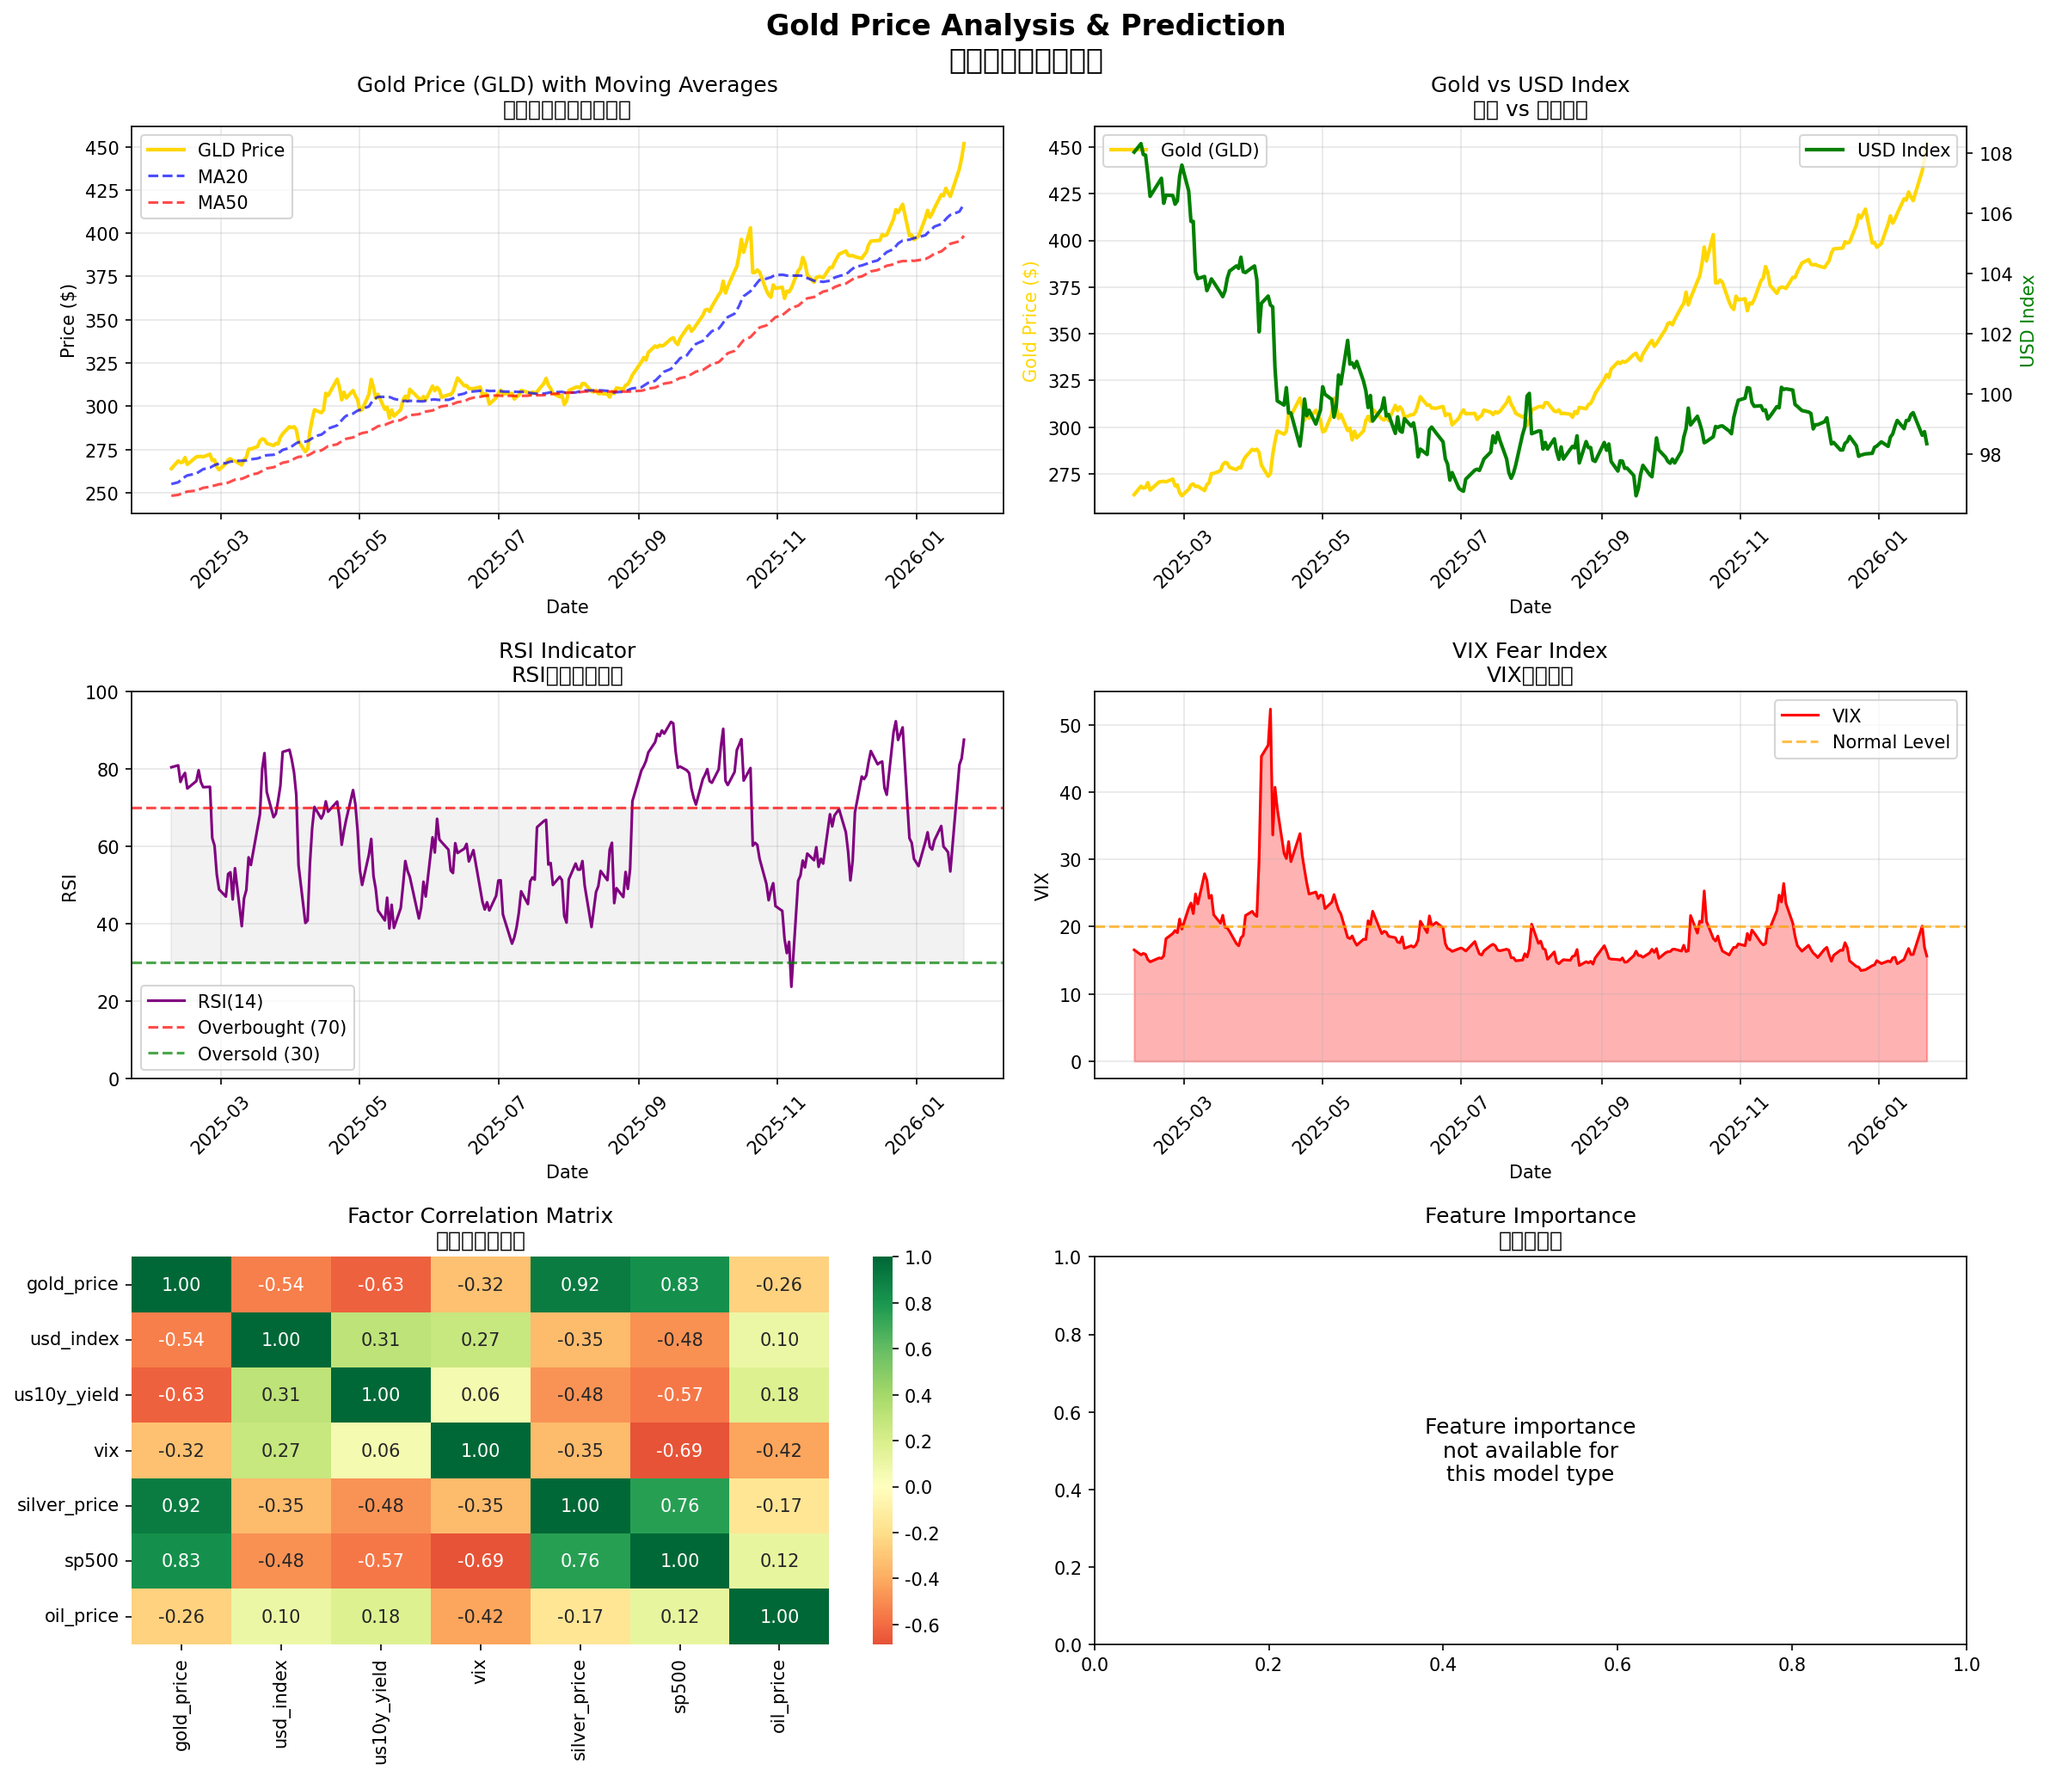
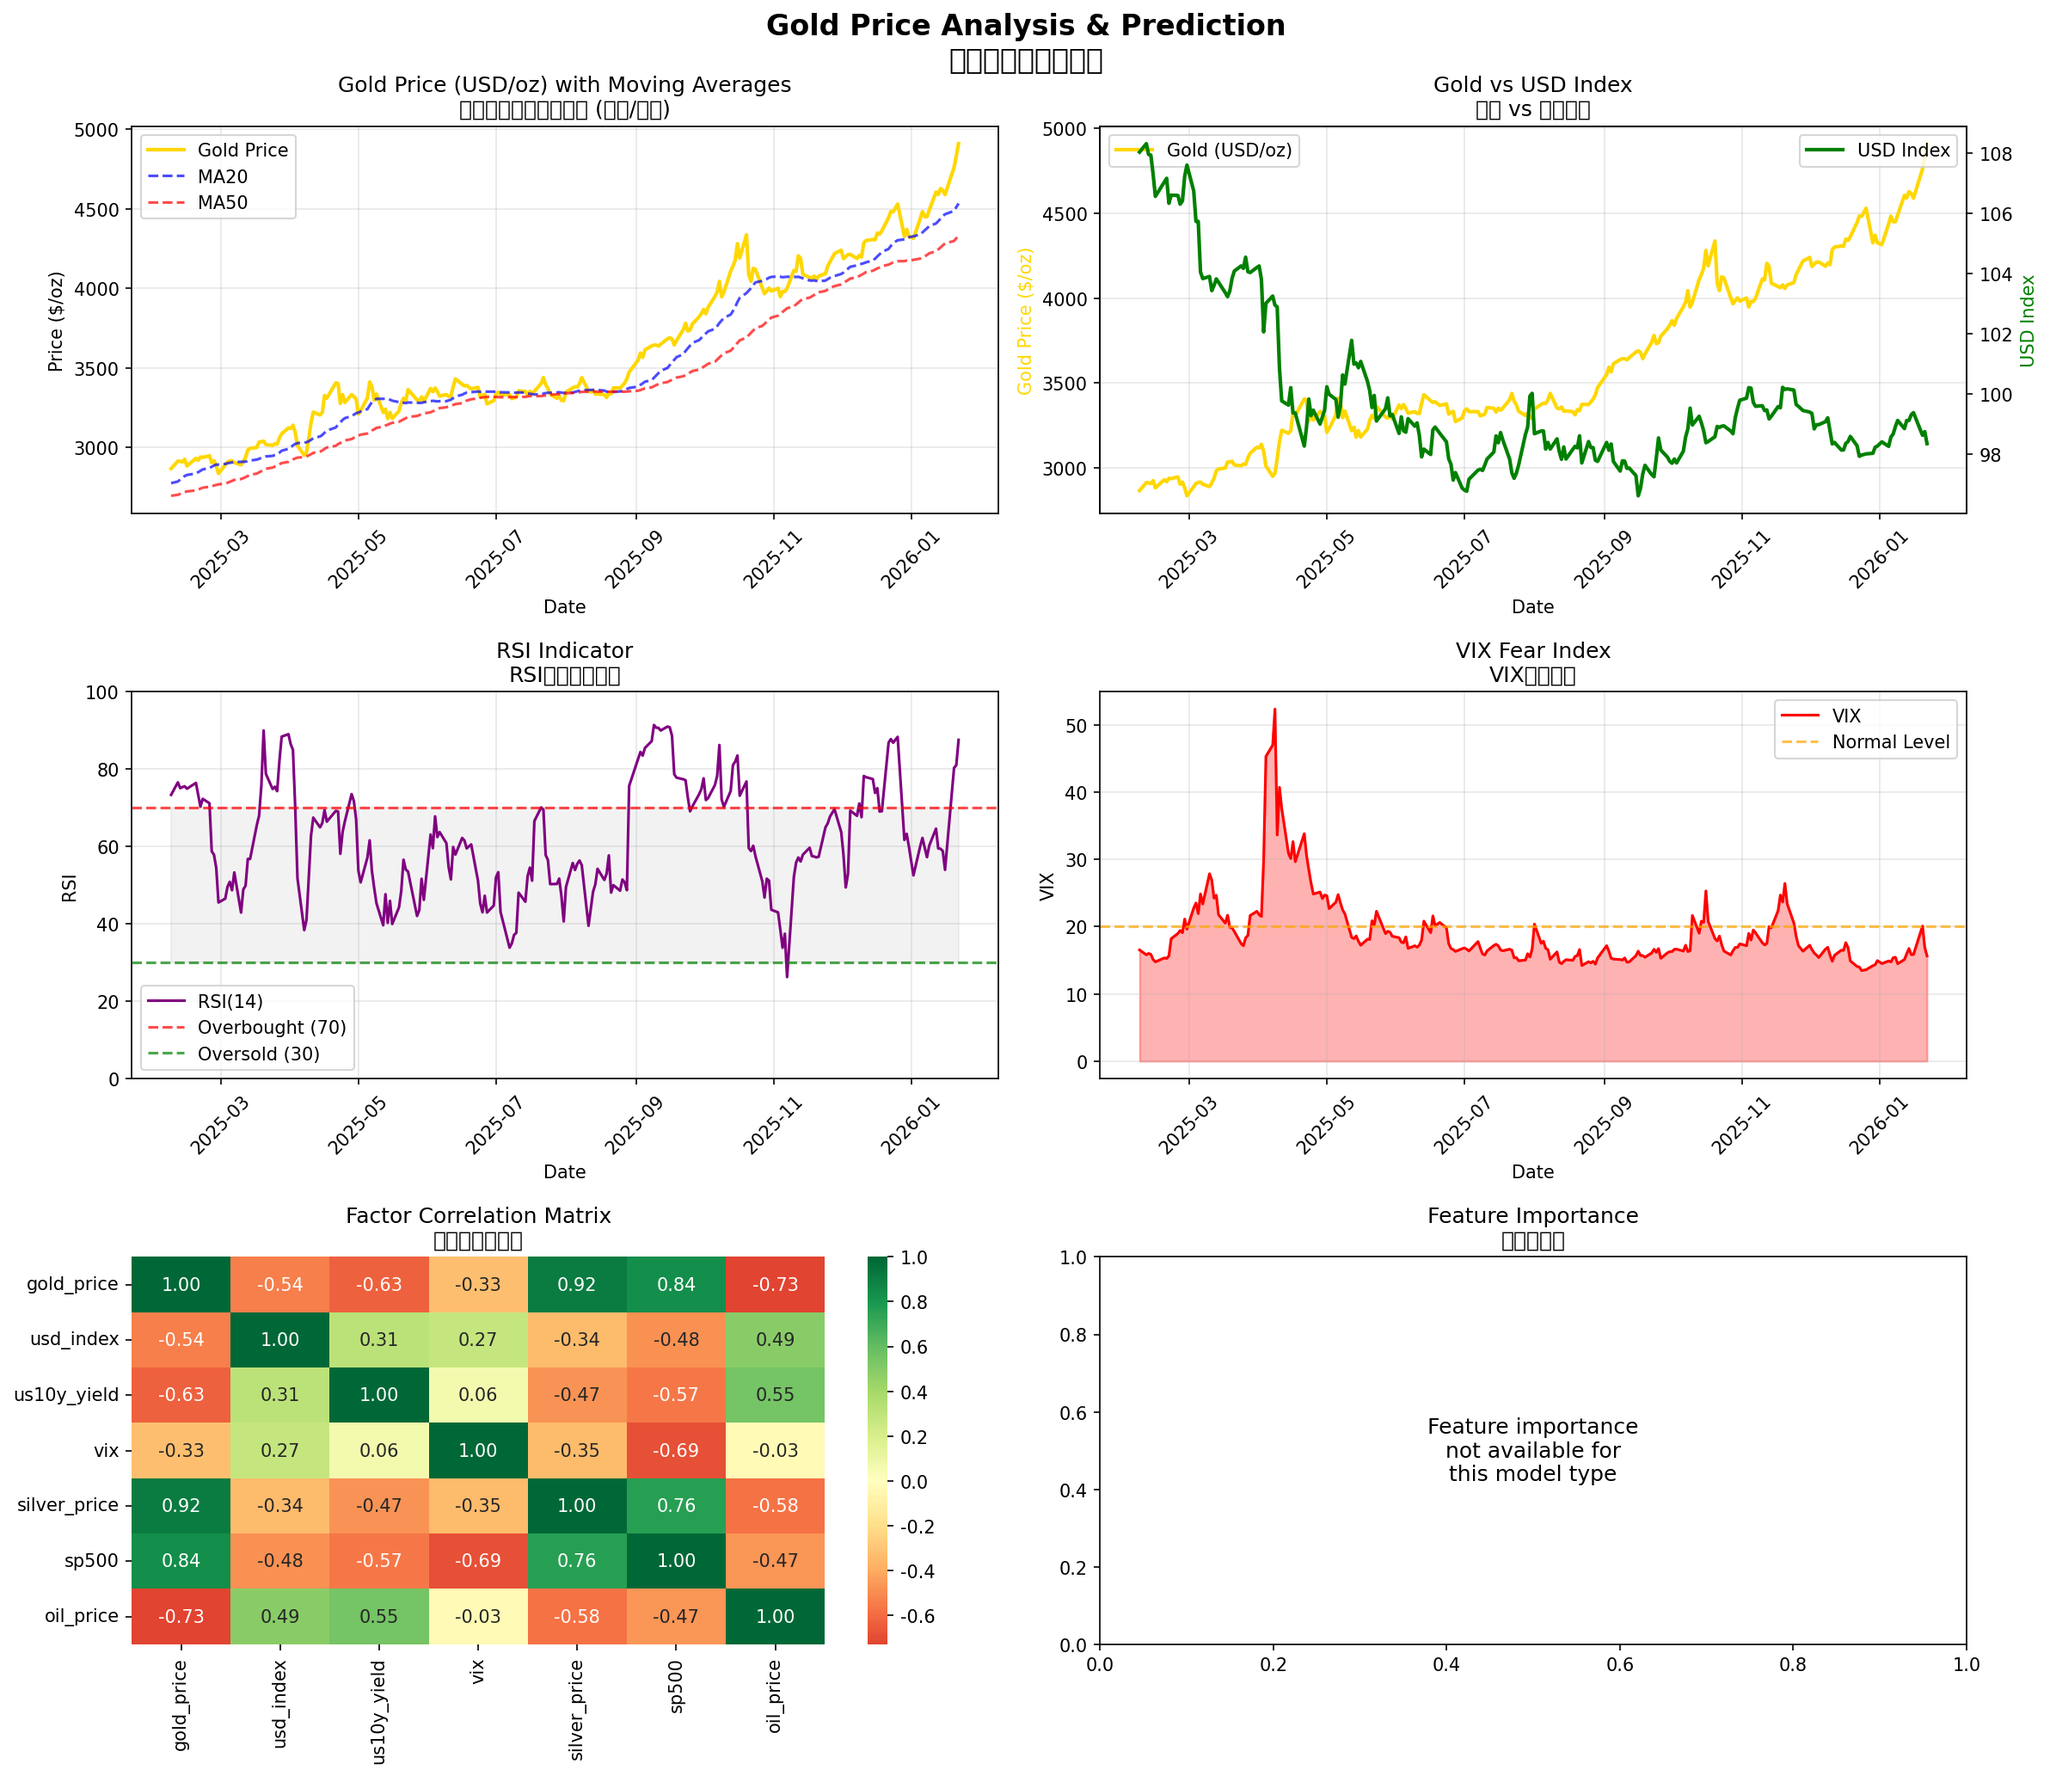
fix: 修正金价数据源，使用美元/盎司计价
- 将数据源从GLD ETF改为GC=F（COMEX黄金期货）
- 将白银数据源从SLV改为SI=F（白银期货）
- 将原油数据源从USO改为CL=F（WTI原油期货）
- 更新所有图表和报告的单位标注为美元/盎司

diff --git a/gold_price_predictor.py b/gold_price_predictor.py
@@ -47,13 +47,13 @@ class GoldPricePredictor:
         获取黄金价格及相关因子数据
         
         因子说明：
-        - GLD: 黄金ETF（代表金价）
+        - GC=F: COMEX黄金期货（美元/盎司，真实金价）
         - DX-Y.NYB: 美元指数（负相关）
         - ^TNX: 10年期美债收益率（负相关）
         - ^VIX: 恐慌指数（正相关，避险情绪）
         - TIP: 通胀保值债券ETF（通胀预期）
-        - USO: 原油ETF（通胀关联）
-        - SLV: 白银ETF（贵金属联动）
+        - CL=F: WTI原油期货（通胀关联）
+        - SI=F: 白银期货（美元/盎司，贵金属联动）
         - SPY: 标普500 ETF（风险偏好）
         """
         print("=" * 60)
@@ -63,15 +63,15 @@ class GoldPricePredictor:
         end_date = datetime.now()
         start_date = end_date - timedelta(days=period_days + 60)  # 多取60天用于计算技术指标
         
-        # 定义要获取的标的
+        # 定义要获取的标的 - 使用期货价格获取真实金价（美元/盎司）
         tickers = {
-            'GLD': '黄金ETF (金价代理)',
+            'GC=F': '黄金期货 (美元/盎司)',
             'DX-Y.NYB': '美元指数',
             '^TNX': '10年期美债收益率',
             '^VIX': 'VIX恐慌指数',
             'TIP': '通胀保值债券ETF',
-            'USO': '原油ETF',
-            'SLV': '白银ETF',
+            'CL=F': 'WTI原油期货',
+            'SI=F': '白银期货 (美元/盎司)',
             'SPY': '标普500 ETF'
         }
         
@@ -97,13 +97,13 @@ class GoldPricePredictor:
         
         # 重命名列
         column_mapping = {
-            'GLD': 'gold_price',
+            'GC=F': 'gold_price',      # 黄金期货 美元/盎司
             'DX-Y.NYB': 'usd_index',
             '^TNX': 'us10y_yield',
             '^VIX': 'vix',
             'TIP': 'tip_inflation',
-            'USO': 'oil_price',
-            'SLV': 'silver_price',
+            'CL=F': 'oil_price',        # WTI原油期货
+            'SI=F': 'silver_price',     # 白银期货 美元/盎司
             'SPY': 'sp500'
         }
         combined = combined.rename(columns=column_mapping)
@@ -293,9 +293,9 @@ class GoldPricePredictor:
         }
         
         print(f"\n当前日期: {result['current_date']}")
-        print(f"当前金价 (GLD): ${current_price:.2f}")
+        print(f"当前金价: ${current_price:.2f} 美元/盎司")
         print(f"\n预测日期: {result['prediction_date']}")
-        print(f"预测金价 (GLD): ${prediction:.2f}")
+        print(f"预测金价: ${prediction:.2f} 美元/盎司")
         print(f"预测变化: {'+' if change >= 0 else ''}{change:.2f} ({'+' if change_pct >= 0 else ''}{change_pct:.2f}%)")
         
         # 给出方向建议
@@ -371,12 +371,12 @@ class GoldPricePredictor:
         
         # 1. 金价走势 + 移动平均线
         ax1 = axes[0, 0]
-        ax1.plot(df.index, df['gold_price'], label='GLD Price', color='gold', linewidth=2)
+        ax1.plot(df.index, df['gold_price'], label='Gold Price', color='gold', linewidth=2)
         ax1.plot(df.index, df['gold_ma20'], label='MA20', color='blue', linestyle='--', alpha=0.7)
         ax1.plot(df.index, df['gold_ma50'], label='MA50', color='red', linestyle='--', alpha=0.7)
-        ax1.set_title('Gold Price (GLD) with Moving Averages\n金价走势与移动平均线')
+        ax1.set_title('Gold Price (USD/oz) with Moving Averages\n金价走势与移动平均线 (美元/盎司)')
         ax1.set_xlabel('Date')
-        ax1.set_ylabel('Price ($)')
+        ax1.set_ylabel('Price ($/oz)')
         ax1.legend()
         ax1.grid(True, alpha=0.3)
         ax1.xaxis.set_major_formatter(mdates.DateFormatter('%Y-%m'))
@@ -386,11 +386,11 @@ class GoldPricePredictor:
         # 2. 金价 vs 美元指数
         ax2 = axes[0, 1]
         ax2_twin = ax2.twinx()
-        ax2.plot(df.index, df['gold_price'], label='Gold (GLD)', color='gold', linewidth=2)
+        ax2.plot(df.index, df['gold_price'], label='Gold (USD/oz)', color='gold', linewidth=2)
         ax2_twin.plot(df.index, df['usd_index'], label='USD Index', color='green', linewidth=2)
         ax2.set_title('Gold vs USD Index\n金价 vs 美元指数')
         ax2.set_xlabel('Date')
-        ax2.set_ylabel('Gold Price ($)', color='gold')
+        ax2.set_ylabel('Gold Price ($/oz)', color='gold')
         ax2_twin.set_ylabel('USD Index', color='green')
         ax2.legend(loc='upper left')
         ax2_twin.legend(loc='upper right')
@@ -496,16 +496,16 @@ class GoldPricePredictor:
 ║  报告生成时间: {datetime.now().strftime('%Y-%m-%d %H:%M:%S')}                           ║
 ╚══════════════════════════════════════════════════════════════════╝
 
-【一、价格概览】
+【一、价格概览】(单位: 美元/盎司)
 ━━━━━━━━━━━━━━━━━━━━━━━━━━━━━━━━━━━━━━━━━━━━━━━━━━━━━━━━━━
-  当前价格 (GLD): ${latest_price:.2f}
+  当前金价:      ${latest_price:.2f} /盎司
   过去1个月涨跌:  {'+' if return_1m >= 0 else ''}{return_1m:.2f}%
   过去3个月涨跌:  {'+' if return_3m >= 0 else ''}{return_3m:.2f}%
   过去1年涨跌:    {'+' if return_1y >= 0 else ''}{return_1y:.2f}%
   
-  一年最高价: ${max_price:.2f}
-  一年最低价: ${min_price:.2f}
-  一年平均价: ${avg_price:.2f}
+  一年最高价: ${max_price:.2f} /盎司
+  一年最低价: ${min_price:.2f} /盎司
+  一年平均价: ${avg_price:.2f} /盎司
 
 【二、技术指标】
 ━━━━━━━━━━━━━━━━━━━━━━━━━━━━━━━━━━━━━━━━━━━━━━━━━━━━━━━━━━
@@ -517,7 +517,7 @@ class GoldPricePredictor:
 ━━━━━━━━━━━━━━━━━━━━━━━━━━━━━━━━━━━━━━━━━━━━━━━━━━━━━━━━━━
   预测模型:   {self.best_model_name}
   预测日期:   {prediction_result['prediction_date']}
-  预测价格:   ${prediction_result['predicted_price']:.2f}
+  预测价格:   ${prediction_result['predicted_price']:.2f} /盎司
   预测涨跌:   {'+' if prediction_result['change'] >= 0 else ''}{prediction_result['change']:.2f} ({'+' if prediction_result['change_pct'] >= 0 else ''}{prediction_result['change_pct']:.2f}%)
   
   趋势判断:   {'📈 看涨' if prediction_result['change_pct'] > 0.5 else '📉 看跌' if prediction_result['change_pct'] < -0.5 else '➡ 震荡'}
@@ -527,7 +527,7 @@ class GoldPricePredictor:
   · 美元指数 (负相关):   当前 {latest_usd:.2f}
   · 美债收益率 (负相关): 当前 {df['us10y_yield'].iloc[-1]:.2f}%
   · VIX恐慌 (正相关):    当前 {latest_vix:.1f}
-  · 白银价格 (正相关):   当前 ${df['silver_price'].iloc[-1]:.2f}
+  · 白银价格 (正相关):   当前 ${df['silver_price'].iloc[-1]:.2f} /盎司
 
 【五、风险提示】
 ━━━━━━━━━━━━━━━━━━━━━━━━━━━━━━━━━━━━━━━━━━━━━━━━━━━━━━━━━━
